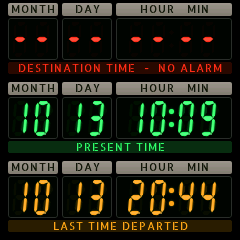
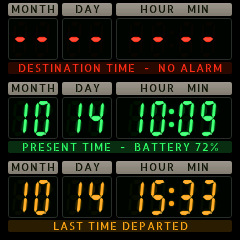
Faces: battery level on Time circuits and Night
Time circuits shows it in the PRESENT TIME band ("PRESENT TIME - BATTERY 72%",
"CHARGING" on USB), in amber below 20 %, the way the red band tells the alarm state.
Night shows it under the time in dark red, orange below 20 %. Both refresh with the
minute. Checked on the watch.

Claude-Session: https://claude.ai/code/session_01BHBYox5ENEx9Hdd9LiBx8a

diff --git a/src/ui/face_circuits.c b/src/ui/face_circuits.c
@@ -3,7 +3,7 @@
  *
  * Three rows of 7-segment displays, each with stencilled labels:
  *   red    DESTINATION TIME    next alarm (dashes when there is none)
- *   green  PRESENT TIME        current date and time, ':' beating the seconds
+ *   green  PRESENT TIME        current date and time, ':' beating the seconds; battery in the band
  *   amber  LAST TIME DEPARTED  last NTP synchronisation
  *
  * Easter egg: long press on the green row, or 10,000 steps reached → electrical
@@ -30,7 +30,7 @@ typedef struct {
 
 static lv_obj_t *s_scr, *s_bolts;
 static row_t s_dest, s_now, s_last;
-static lv_obj_t *s_dest_title;
+static lv_obj_t *s_dest_title, *s_now_title;
 static lv_timer_t *s_timer;
 static int s_last_min = -1, s_last_sec = -1;
 static bool s_egg_done_today;
@@ -232,6 +232,14 @@ static void update(lv_timer_t *t)
 
     show(&s_now, &now);
 
+    /* Battery in the PRESENT TIME band, like the alarm state in the red one; amber below 20 %. */
+    kg_battery_t b = hal_battery();
+    if (b.percent >= 0)
+        lv_label_set_text_fmt(s_now_title, "PRESENT TIME  -  %s %d%%", b.charging ? "CHARGING" : "BATTERY", b.percent);
+    else
+        lv_label_set_text(s_now_title, "PRESENT TIME");
+    lv_obj_set_style_text_color(s_now_title, b.percent >= 0 && b.percent < 20 && !b.charging ? KG_C_SEG_AMBER : KG_C_SEG_GREEN, 0);
+
     struct tm alarm;
     if (model_next_alarm(&alarm)) {
         show(&s_dest, &alarm);
@@ -278,7 +286,7 @@ static lv_obj_t *create(void)
     lv_obj_clear_flag(s_scr, LV_OBJ_FLAG_SCROLLABLE);
 
     s_dest_title = row(s_scr, 3, KG_C_SEG_RED, "DESTINATION TIME", &s_dest);
-    row(s_scr, 3 + ROW_H, KG_C_SEG_GREEN, "PRESENT TIME", &s_now);
+    s_now_title = row(s_scr, 3 + ROW_H, KG_C_SEG_GREEN, "PRESENT TIME", &s_now);
     row(s_scr, 3 + 2 * ROW_H, KG_C_SEG_AMBER, "LAST TIME DEPARTED", &s_last);
 
     /* Hidden long-press area: the green row. */

diff --git a/src/ui/face_night.c b/src/ui/face_night.c
@@ -1,13 +1,14 @@
 /*
  * Face 3 — "Night": the time alone, in large dark-red digits, dimmed backlight.
  * One update per minute: the most power-frugal face. Rationale in DECISIONS.md (D19).
+ * The battery level sits under the time, dark red too (orange below 20 %).
  */
 #include "faces.h"
 #include "theme.h"
 #include "fonts/kg_fonts.h"
 #include "../hal/hal.h"
 
-static lv_obj_t *s_time;
+static lv_obj_t *s_time, *s_batt;
 static lv_timer_t *s_timer;
 static int s_last_min = -1;
 
@@ -20,6 +21,13 @@ static void update(lv_timer_t *t)
     s_last_min = now.tm_min;
     if (ui_fmt24()) lv_label_set_text_fmt(s_time, "%02d:%02d", now.tm_hour, now.tm_min);
     else lv_label_set_text_fmt(s_time, "%d:%02d", ui_display_hour(now.tm_hour), now.tm_min);
+    kg_battery_t b = hal_battery();
+    if (b.percent >= 0) {
+        lv_label_set_text_fmt(s_batt, "%s%d %%", b.charging ? "+ " : "", b.percent);
+        lv_obj_set_style_text_color(s_batt, b.percent < 20 && !b.charging ? KG_C_WARN : KG_C_NIGHT, 0);
+    } else {
+        lv_label_set_text(s_batt, "");
+    }
 }
 
 static void set_active(bool on)
@@ -45,6 +53,11 @@ static lv_obj_t *create(void)
     lv_obj_set_style_text_letter_space(s_time, -2, 0);
     lv_label_set_text(s_time, "00:00");
     lv_obj_center(s_time);
+    s_batt = lv_label_create(scr);
+    lv_obj_set_style_text_font(s_batt, &kg_font_label_20, 0);
+    lv_obj_set_style_text_color(s_batt, KG_C_NIGHT, 0);
+    lv_label_set_text(s_batt, "");
+    lv_obj_align(s_batt, LV_ALIGN_CENTER, 0, 72);
 
     s_timer = lv_timer_create(update, 1000, NULL);
     update(NULL);
